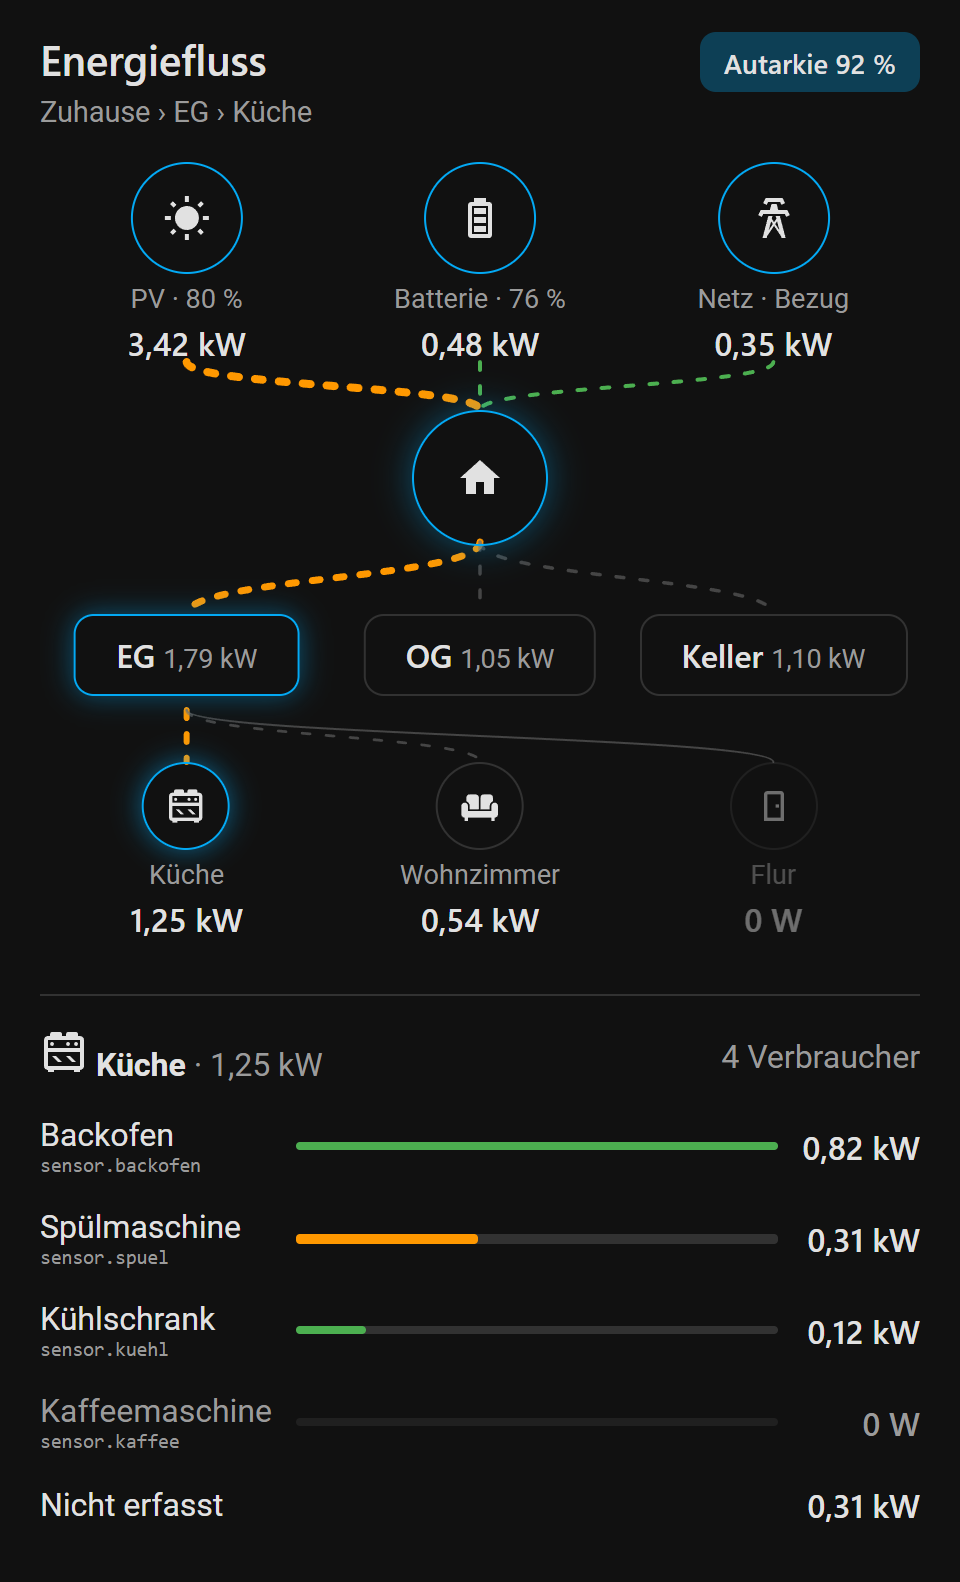
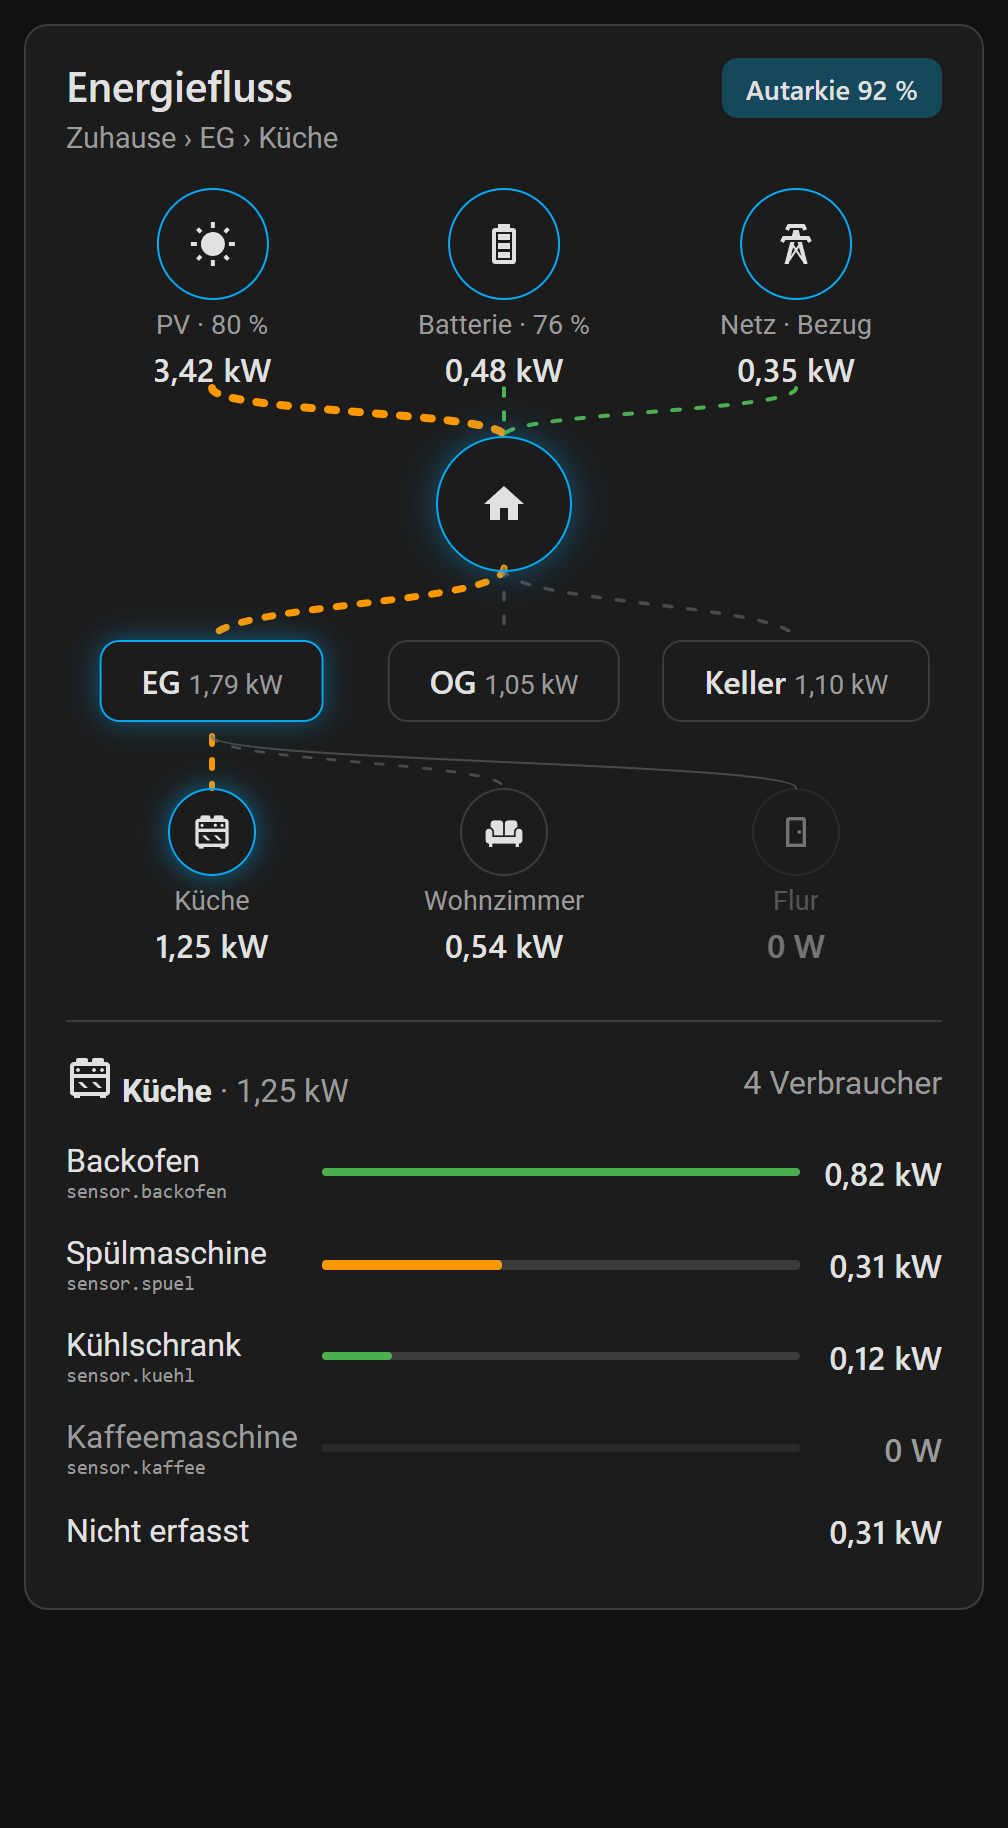
Give all card screenshots the same size (#70)
The card screenshots are cut from a fixed frame, so they line up in tables and
galleries. The dev page draws the card with a background, border and rounded
corners like Home Assistant, the wrap scenario has three consumers per room, and
card-hero keeps the natural height for the product page.

diff --git a/e2e/screenshots.spec.ts b/e2e/screenshots.spec.ts
@@ -9,13 +9,7 @@ const shots: Array<{ scenario: string; file: string; before?: (page: import("@pl
       await page.locator("detailed-energy-card button.node[title=Küche]").click();
     },
   },
-  {
-    scenario: "flat",
-    file: "card-without-floors",
-    before: async (page) => {
-      await page.locator("detailed-energy-card button.node[title=Küche]").click();
-    },
-  },
+  { scenario: "flat", file: "card-without-floors" }, // all rooms are selected by default
   {
     scenario: "wrap",
     file: "card-many-rooms-wrapped",
@@ -36,18 +30,45 @@ const shots: Array<{ scenario: string; file: string; before?: (page: import("@pl
     // the statistics arrive after the first render
     before: async (page) => {
       await expect(page.locator("detailed-energy-card .pill small", { hasText: "kWh" }).first()).toBeVisible();
+      await page.locator("detailed-energy-card button.node[title=Küche]").click();
     },
   },
-  { scenario: "floors", file: "card-all-rooms" }, // all rooms of the floor are selected by default
+  { scenario: "floors", file: "card-all-rooms" },
+  {
+    scenario: "floors",
+    file: "card-hero",
+    before: async (page) => {
+      await page.locator("detailed-energy-card button.node[title=Küche]").click();
+    },
+  }, // all rooms of the floor are selected by default
 ];
+
+// Every card image has the same size, so that they line up in tables and galleries. A card is shorter or longer
+// depending on its content; the picture always shows the same height and the rest is the dark background of the card.
+// card-hero keeps the height of the card (the product page uses it next to the headline).
+const CARD_IMAGE_HEIGHT = 890;
+/** a little of the page around the card, so that it reads as a card and not as a cut-out */
+const IMAGE_MARGIN = 12;
+const natural = new Set(["card-hero"]);
 
 for (const { scenario, file, before } of shots) {
   test(`screenshot ${file}`, async ({ page }) => {
+    await page.setViewportSize({ width: 512, height: CARD_IMAGE_HEIGHT + 100 });
     await page.goto(`/dev/index.html?scenario=${scenario}`);
     await expect(page.locator("detailed-energy-card .path")).toContainText("Zuhause");
     await expect(page.locator("detailed-energy-card .path")).not.toContainText("eg");
     await before?.(page);
-    await page.locator("detailed-energy-card").screenshot({ path: `docs/screenshots/${file}.png` });
+    const card = page.locator("detailed-energy-card");
+    if (natural.has(file)) {
+      await card.screenshot({ path: `docs/screenshots/${file}.png` });
+      return;
+    }
+    const box = await card.boundingBox();
+    if (!box || box.height > CARD_IMAGE_HEIGHT) throw new Error(`${file}: the card is taller than the image (${box?.height} px)`);
+    await page.screenshot({
+      path: `docs/screenshots/${file}.png`,
+      clip: { x: box.x - IMAGE_MARGIN, y: box.y - IMAGE_MARGIN, width: box.width + 2 * IMAGE_MARGIN, height: CARD_IMAGE_HEIGHT + 2 * IMAGE_MARGIN },
+    });
   });
 }
 

diff --git a/dev/index.html b/dev/index.html
@@ -108,6 +108,14 @@
         color: #e8eaff;
         padding: 12px 24px;
       }
+      /* like the card of Home Assistant around a transparent card: background, border and rounded corners */
+      detailed-energy-card {
+        background: var(--card-background-color);
+        border: 1px solid var(--divider-color);
+        border-radius: 12px;
+        display: block;
+        overflow: hidden;
+      }
       ha-card {
         display: block;
         border-radius: 12px;
@@ -198,6 +206,8 @@
         "sensor.buero": s(160),
         "sensor.schlafen": s(100),
         ...Object.fromEntries(Array.from({ length: 10 }, (_, i) => [`sensor.r${i}`, s(100 + i * 60)])),
+        ...Object.fromEntries(Array.from({ length: 10 }, (_, i) => [`sensor.r${i}b`, s(20 + i * 15)])),
+        ...Object.fromEntries(Array.from({ length: 10 }, (_, i) => [`sensor.r${i}c`, s(i % 3 === 0 ? 0 : 8 + i * 4)])),
       };
 
       const thresholds = [
@@ -212,7 +222,7 @@
         { entity: "sensor.netz", type: "grid" },
       ];
 
-      const manyRooms = Array.from({ length: 10 }, (_, i) => room(i < 8 ? registries.areas[i].area_id : `x${i - 8}`, [c(`sensor.r${i}`, `Verbraucher ${i + 1}`)]));
+      const manyRooms = Array.from({ length: 10 }, (_, i) => room(i < 8 ? registries.areas[i].area_id : `x${i - 8}`, [c(`sensor.r${i}`, `Verbraucher ${i + 1}`), c(`sensor.r${i}b`, `Standby ${i + 1}`), c(`sensor.r${i}c`, `Beleuchtung ${i + 1}`)]));
 
       const scenarios = {
         floors: {

diff --git a/README.md b/README.md
@@ -18,13 +18,11 @@ Home → floor → room → consumers. Click a floor to show its rooms (all of t
 | --- | --- |
 | ![All rooms selected](https://raw.githubusercontent.com/stacknoise/detailed-energy-card/main/docs/screenshots/card-all-rooms.png) | ![Many rooms wrapped](https://raw.githubusercontent.com/stacknoise/detailed-energy-card/main/docs/screenshots/card-many-rooms-wrapped.png) |
 
-Thresholds can differ per level, and a single element can have its own list. Here the floor and room lines have their own limits and widths, and the oven (green until 1 kW) has its own thresholds instead of the consumer level's:
+| Thresholds per level | Energy mode |
+| --- | --- |
+| ![Card with thresholds per level](https://raw.githubusercontent.com/stacknoise/detailed-energy-card/main/docs/screenshots/card-thresholds.png) | ![Card in the energy mode](https://raw.githubusercontent.com/stacknoise/detailed-energy-card/main/docs/screenshots/card-energy.png) |
 
-![Card with thresholds per level](https://raw.githubusercontent.com/stacknoise/detailed-energy-card/main/docs/screenshots/card-thresholds.png)
-
-The energy mode shows how much each part used today, this week or this month; the lines show the share of the consumption, and the coffee machine has no energy sensor:
-
-![Card in the energy mode](https://raw.githubusercontent.com/stacknoise/detailed-energy-card/main/docs/screenshots/card-energy.png)
+Thresholds can differ per level, and a single element can have its own list: here the floor and room lines have their own limits and widths, and the oven (green until 1 kW) has its own thresholds instead of the consumer level's. The energy mode shows how much each part used today, this week or this month; the lines show the share of the consumption, and the coffee machine has no energy sensor.
 
 The card screenshots are rendered from mock data with `npm run screenshots`.
 

diff --git a/CHANGELOG.md b/CHANGELOG.md
@@ -8,6 +8,7 @@
 
 ### Docs
 
+- All card screenshots in the README have the same size (one fixed frame, a shorter card shows the dark page below it), and the dev page draws the card like Home Assistant does (background, border, rounded corners). The README shows them in rows of two, thresholds and energy mode included.
 - New editor screenshots with demo data (general options, thresholds per level, energy sensors, structure), rendered by `npm run screenshots` from the dev page (`?editor=editor`).
 
 ## 1.0.0
